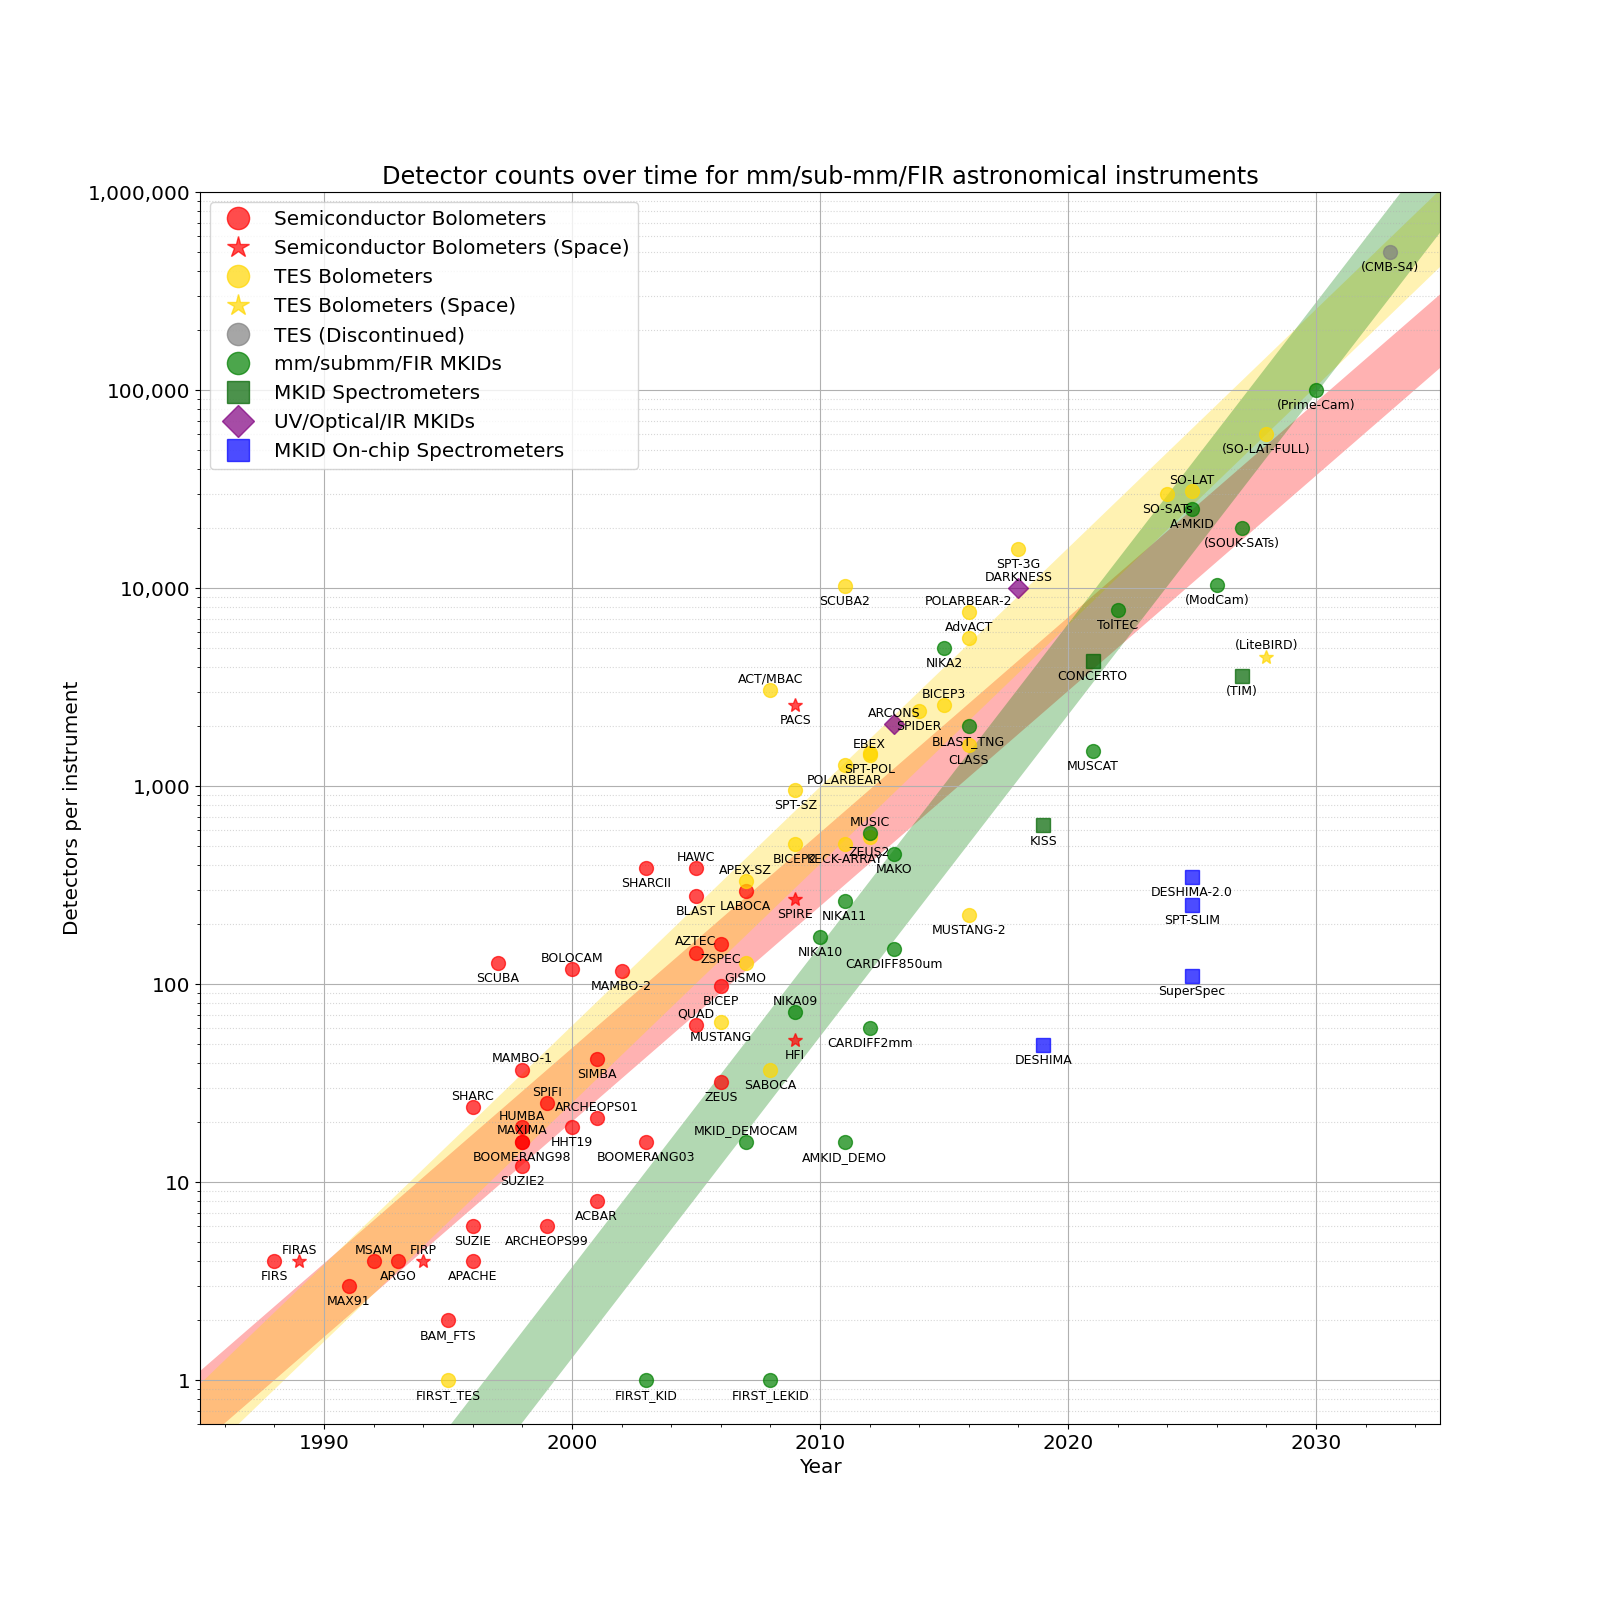
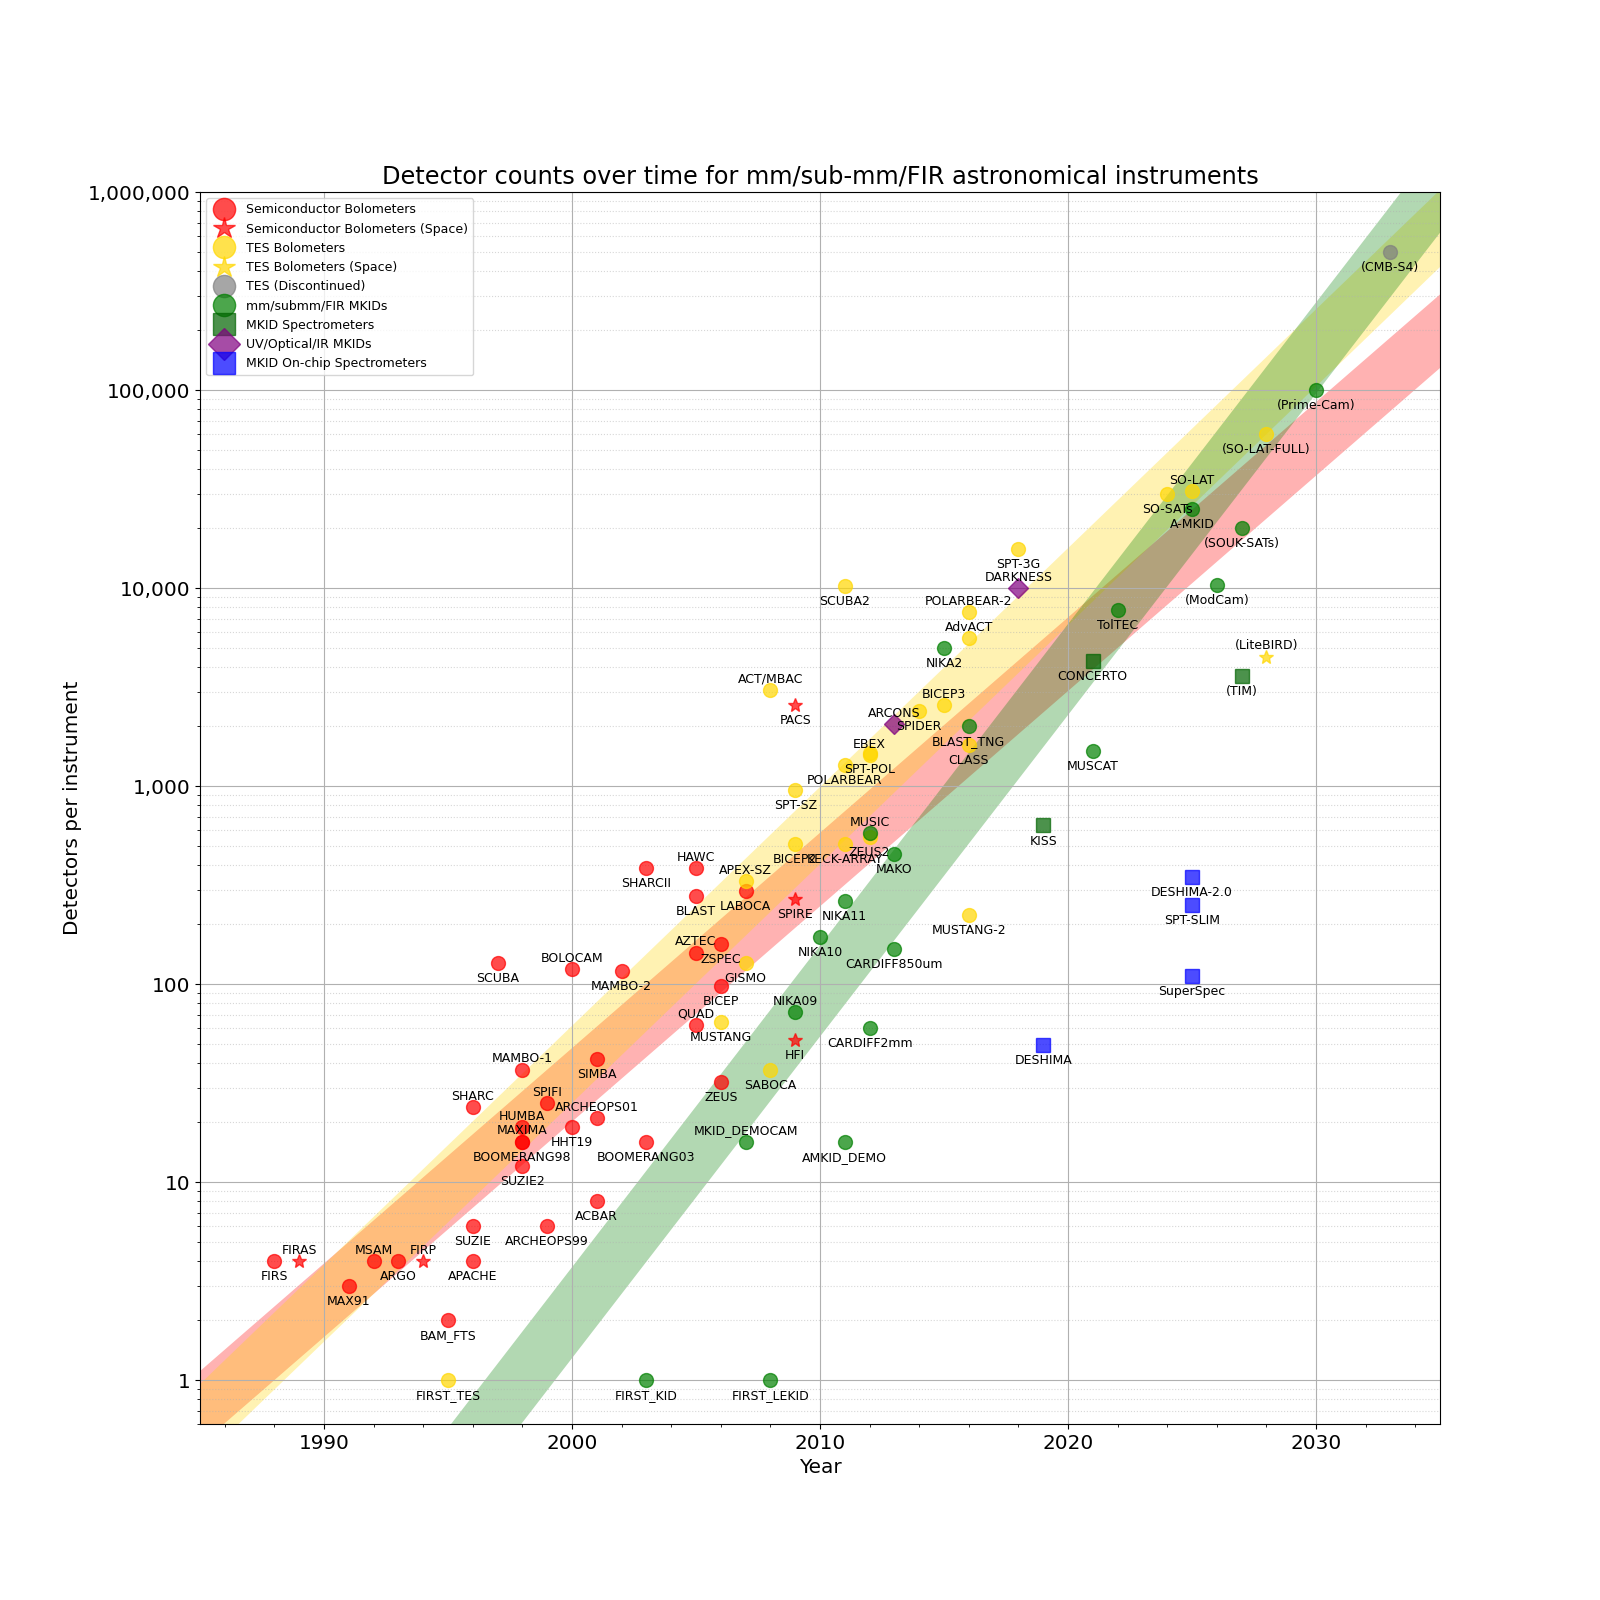
Make legend font size match marker text labels (size 9)

Changed region(s): [[0.125, 0.125, 0.375, 0.3125]]

diff --git a/instruments.py b/instruments.py
@@ -227,7 +227,7 @@ ax.set_xlabel('Year',fontsize='x-large')
 plt.grid(which='major')
 plt.grid(which='minor', axis='y', linestyle=':', alpha=0.5)
 ax.minorticks_on()
-plt.legend(loc = 0, numpoints = 1, prop = {'size':'x-large'})
+plt.legend(loc = 0, numpoints = 1, prop = {'size':9})
 plt.title('Detector counts over time for mm/sub-mm/FIR astronomical instruments', fontsize='xx-large')
 plt.savefig('instruments.png')
 
